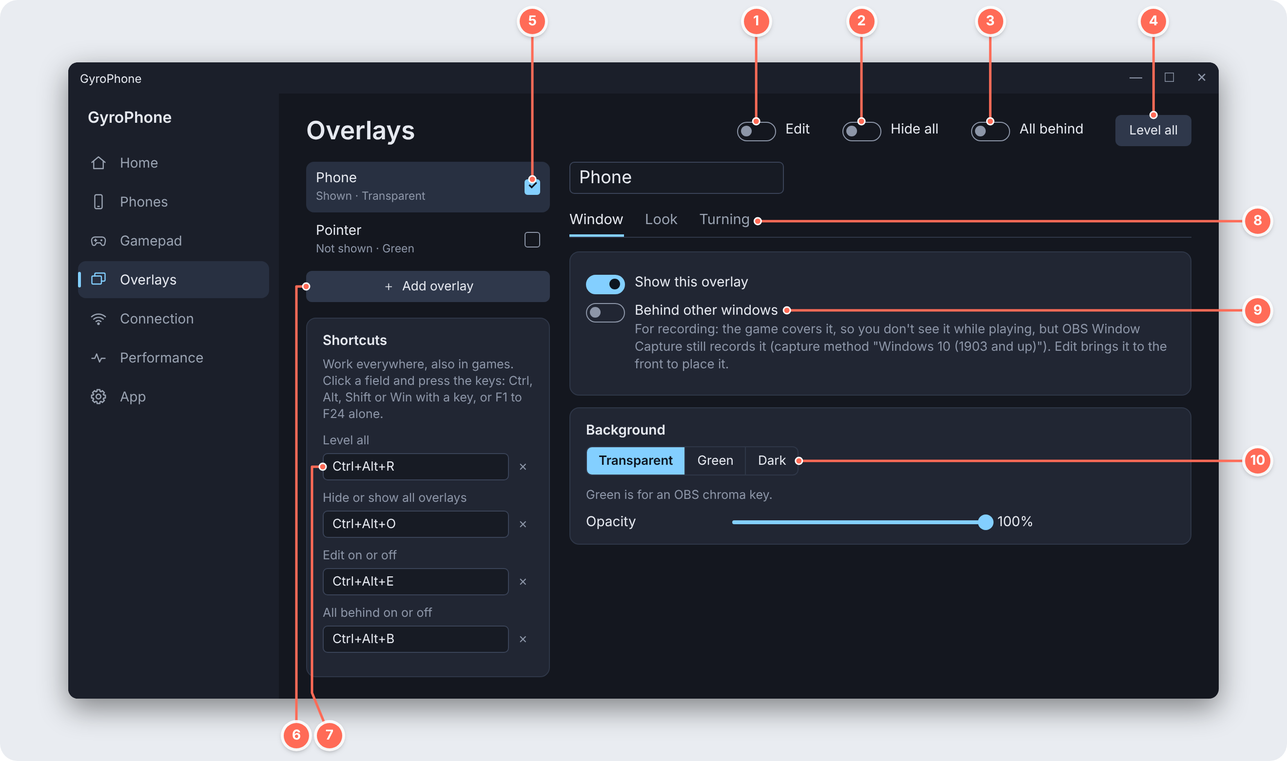
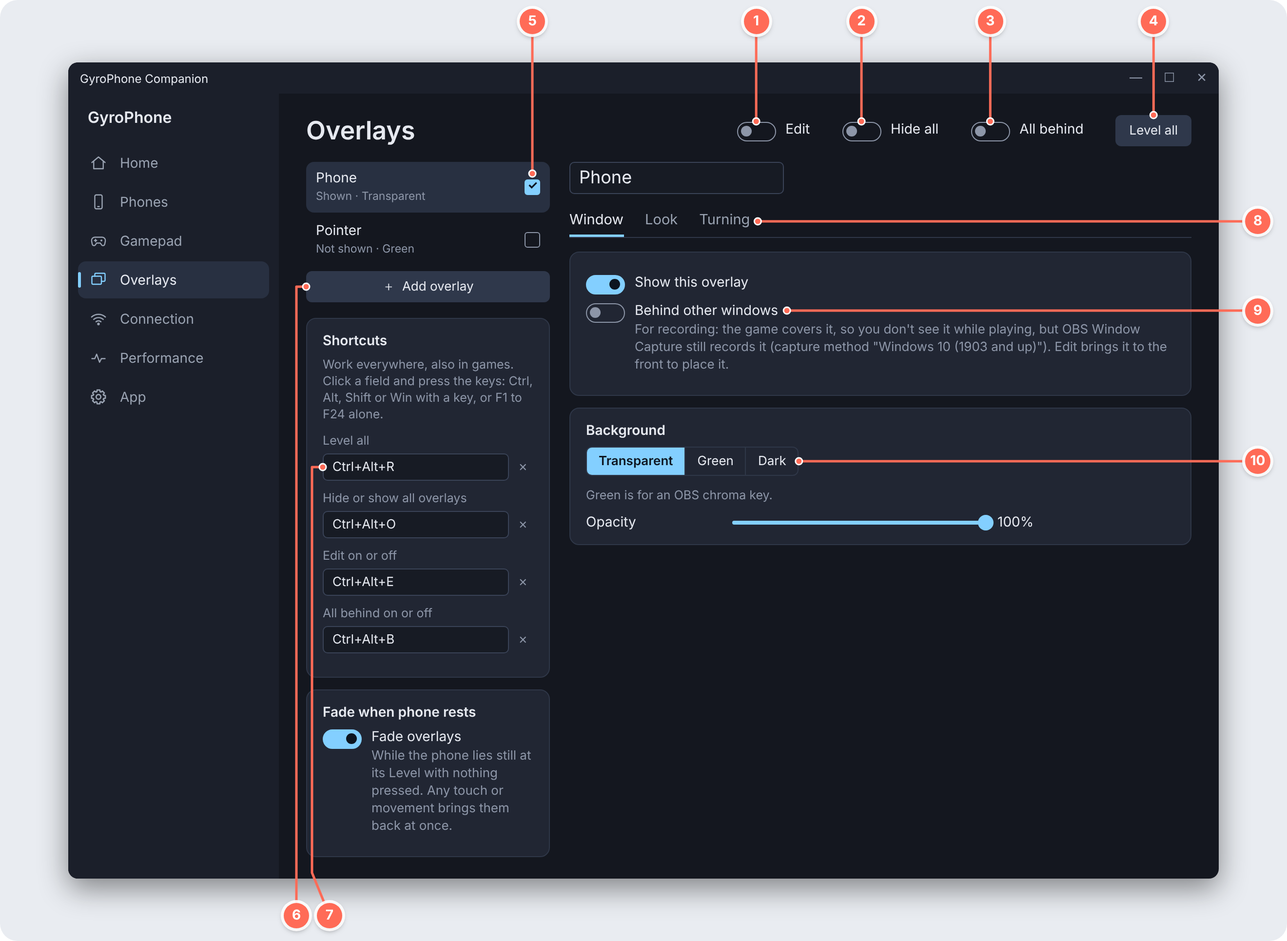
Guide: fix 106 mismatches with the app found by a full check (labels, defaults, tabs, marks, readability)

diff --git a/docs/guide/mockups/mapping-editor.html b/docs/guide/mockups/mapping-editor.html
@@ -3,16 +3,16 @@
 <script>
 const st = document.getElementById('st');
 const s = phone(st, 'land');
-// ControlMappingScreen.kt in landscape: one thin top row on its own background (label, layer chips, Sort, Reset all,
+// ControlMappingScreen.kt in landscape: one thin top row on its own background (label, ☺, layer chips, Sort, Reset all,
 // Clear all, + Preset, Settings, Undo, Redo, Done), then the action cards and the library side by side with a
 // SplitHandle (20 dp, a 4 x 40 dp grip) between them, split half and half by default.
 const p = el(s, `<div class="page" style="padding-left:34px;display:flex;flex-direction:column">
- <div class="mtop" style="background:#211F26"><span class="lbl">LMB</span><span class="setchip on">Base</span><span class="tb">+ Layer</span><span class="tb">Sort ▾</span><span class="tb">↺ Reset all</span><span class="tb">✕ Clear all</span><span class="tb">+ ◯ Preset</span><span class="tb">⚙ Settings</span><span class="tb">↶ Undo</span><span class="tb">↷ Redo</span><span class="done">Done</span></div>
+ <div class="mtop" style="background:#211F26"><span class="lbl">LMB</span><span class="tb" style="font-size:18px">☺</span><span class="setchip on">Base</span><span class="tb">+ Layer</span><span class="tb">Sort ▾</span><span class="tb">↺ Reset all</span><span class="tb">✕ Clear all</span><span class="tb">+ ◯ Preset</span><span class="tb">⚙ Settings</span><span class="tb">↶ Undo</span><span class="tb">↷ Redo</span><span class="done">Done</span></div>
  <div style="flex:1;display:flex;min-height:0">
   <div style="flex:1;padding:8px 12px 0;overflow:hidden">
    <div style="display:flex;gap:6px;margin-bottom:8px;white-space:nowrap"><span class="setchip on">✓ 1 finger</span><span class="setchip">2 fingers</span><span class="setchip">3 fingers</span><span class="setchip">4 fingers</span><span class="setchip">Gyro</span></div>
-   <div class="acard sel"><div class="hd"><span class="t">Touch</span><span class="buzz">Buzz</span><span class="h">⠿</span></div>
-    <div class="crow"><span class="mchip">Mouse L</span><span class="mchip"><small>Long press ·</small> Key R</span></div>
+   <div class="acard sel"><div class="hd"><span class="t">Touch</span><span class="buzz">Buzz</span><span class="h pcard" style="font-size:16px;display:flex;align-items:center;gap:2px">+<svg width="16" height="16" viewBox="0 0 16 16" style="vertical-align:middle"><rect x="1" y="2.2" width="14" height="11.6" rx="2.2" fill="none" stroke="currentColor" stroke-width="1.8"/><rect x="3.8" y="6.4" width="8.4" height="3.2" rx="1.6" fill="currentColor"/></svg></span><span class="h">⠿</span></div>
+    <div class="crow"><span class="mchip">Mouse L</span><span class="mchip">Long · Key R</span></div>
     <div class="timing">Long press: from 300 ms</div></div>
    <div class="acard"><div class="hd"><span class="g">⚙</span><span class="t">Move</span><span class="h">✕</span><span class="h">⠿</span></div>
     <div class="crow"><span class="mchip inh">Mouse X <small>Workspace</small></span><span class="mchip inh">Mouse Y <small>Workspace</small></span></div></div>
@@ -22,7 +22,7 @@ const p = el(s, `<div class="page" style="padding-left:34px;display:flex;flex-di
    <div class="search" style="margin:0 12px;height:36px;background:#2B2930"><span>⌕</span><span>Search, e.g. W, LT, wheel</span></div>
    <div class="lrow" style="display:flex;gap:6px;padding:6px 12px;white-space:nowrap;overflow:hidden"><span class="setchip">⌨ Press a key</span><span class="setchip">Recent</span><span class="setchip">Presets</span><span class="setchip on">✓ Keyboard</span><span class="setchip">Mouse</span><span class="setchip">Gamepad</span><span class="setchip">Gyro</span></div>
    <div style="font-size:12px;color:var(--m3-on-variant);padding:0 16px">Tap to add to Touch · long-press to drag</div>
-   <div style="padding:10px 12px"><span class="lchip">Esc</span><span class="lchip">Tab</span><span class="lchip">Space</span><span class="lchip">Shift</span><span class="lchip">Ctrl</span><span class="lchip">Alt</span><span class="lchip mapped">R</span><span class="lchip">E</span><span class="lchip">F</span><span class="lchip">Q</span><span class="lchip">W</span><span class="lchip">A</span><span class="lchip">S</span><span class="lchip">D</span><span class="lchip">1</span><span class="lchip">2</span><span class="lchip">3</span><span class="lchip">4</span></div>
+   <div style="padding:10px 12px"><span class="lchip">Key A</span><span class="lchip">Key B</span><span class="lchip">Key C</span><span class="lchip">Key D</span><span class="lchip">Key E</span><span class="lchip">Key F</span><span class="lchip">Key G</span><span class="lchip">Key H</span><span class="lchip">Key I</span><span class="lchip">Key J</span><span class="lchip">Key K</span><span class="lchip">Key L</span><span class="lchip">Key M</span><span class="lchip">Key N</span><span class="lchip">Key O</span><span class="lchip">Key P</span><span class="lchip">Key Q</span><span class="lchip mapped">✓ Key R</span><span class="lchip">Key S</span><span class="lchip">Key T</span><span class="lchip">Key U</span><span class="lchip">Key V</span><span class="lchip">Key W</span><span class="lchip">Key X</span><span class="lchip">Key Y</span><span class="lchip">Key Z</span></div>
   </div>
  </div></div>`);
 const q = (sel, i = 0) => p.querySelectorAll(sel)[i];
@@ -31,12 +31,14 @@ const q = (sel, i = 0) => p.querySelectorAll(sel)[i];
   r.querySelectorAll('.setchip').forEach(c => { if (c.getBoundingClientRect().right > lim) c.style.visibility = 'hidden'; }); }
 const B = e => boxOf(st, e), pk = B(q('.lrow .setchip', 0)), H = st.offsetHeight;
 const chip6 = B(q('.mchip', 1)), t1 = B(q('.setchip', 2)), t2 = B(q('.setchip', 3)), gx = (t1.x + t1.w + t2.x) / 2 + 2;
+const mt = B(q('.mtop')), ly = B(q('.mtop .tb', 1)), so = B(q('.mtop .tb', 2)), gx2 = (ly.x + ly.w + so.x) / 2, yMid = (mt.y + mt.h + t1.y) / 2;
 marks(st, [
-  [1, q('.lbl'), 't'], [2, q('.setchip'), 't'], [3, q('.mtop .tb', 5), 't'], [4, q('.done'), 't'],
+  [1, q('.lbl'), 't', { dy: -6 }], [2, q('.setchip'), 't'], [3, q('.mtop .tb', 6), 't'], [4, q('.done'), 't'],
   [5, q('.acard'), 'l'],
-  [6, q('.mchip', 1), 't', { dx: gx - (chip6.x + chip6.w / 2) }],
+  // Up the gap between the finger tabs, then across under the top row to the gap between + Layer and Sort.
+  [6, q('.mchip', 1), 't', { dx: gx - (chip6.x + chip6.w / 2), via: [[gx, yMid], [gx2, yMid]] }],
   [7, q('.buzz'), 'b'], [8, q('.mchip.inh', 1), 'b'],
-  [9, q('.vsplit'), 'b', { at: 'c', dy: 60, shift: -10 }],
+  [9, q('.vsplit'), 'b', { at: 'c', shift: -10 }],
   [10, q('.lrow .setchip', 3), 't'],
   [11, q('.lrow .setchip', 0), 'b', { dx: -pk.w / 2, dy: -pk.h / 2, shift: 40, via: [[pk.x - 7, pk.y + pk.h / 2], [pk.x - 7, H - 62]] }],
 ], {});

diff --git a/docs/guide/mockups/pc-performance.html b/docs/guide/mockups/pc-performance.html
@@ -8,13 +8,16 @@ const q = s => w.querySelector(s), qa = s => [...w.querySelectorAll(s)];
 const bars = Array.from({ length: 60 }, (_, i) => `<span style="height:${8 + Math.round(6 * Math.abs(Math.sin(i * 1.7)))}px${i === 41 ? ';background:#F2B84B;height:26px' : ''}"></span>`).join('');
 const w = pcWin(st, 'Performance', `<h1 style="margin-bottom:6px">Performance</h1>
  <div class="wsub" style="margin:0 0 14px">The phone link live and Diagnostics. Measured only while this page is open (and while Diagnostics is on).</div>
- <div class="wcard"><div class="ct">Link</div><div class="wbig"><span id="path">Router Wi‑Fi 5 GHz ch 100</span></div>
+ <div class="wcard"><div class="ct">Link</div><div class="wbig"><span id="path">Router Wi‑Fi 5 GHz ch 100 · PC Wi‑Fi</span></div>
   <div class="wsub" id="stats">1,000/s received · loss 0.0% · -48 dBm · 1,201 Mbps · phone sends 1,000 Hz · round trip 3.1 ms · low-latency Wi‑Fi on</div>
   <div style="display:flex;align-items:flex-end;gap:10px;margin-top:12px" id="lat"><span class="wbig">1.9 ms</span><span class="wsub" id="latsub" style="margin-bottom:2px">latency p50 · p99 4.8 ms · jitter 0.42 ms</span></div>
+  <svg id="latg" viewBox="0 0 300 30" preserveAspectRatio="none" style="display:block;width:100%;height:30px;margin-top:8px"><polyline fill="none" stroke="#5A6B85" stroke-width="1.2" points="0,14 10,12 20,15 30,10 40,13 50,11 60,16 70,9 80,13 90,12 100,14 110,8 120,12 130,15 140,11 150,13 160,10 170,14 180,12 190,11 200,13 210,9 220,12 230,14 240,10 250,13 260,11 270,12 280,15 290,10 300,12"/><polyline fill="none" stroke="#83CFFF" stroke-width="1.6" points="0,24 10,23 20,24 30,22 40,23 50,24 60,23 70,22 80,24 90,23 100,23 110,22 120,24 130,23 140,22 150,24 160,23 170,23 180,22 190,24 200,23 210,22 220,23 230,24 240,23 250,22 260,24 270,23 280,22 290,23 300,24"/></svg>
+  <div class="wsub" style="font-size:11.5px">Latency while this page is open: middle (p50) bright, slowest 1% (p99) faint.</div>
   <div class="gr">${bars}</div>
-  <div class="wsub" style="font-size:11.5px">Last 10 seconds. Orange marks: the link lost or held up packets, the phone paused, or held keys were let go, in that second.</div>
+  <div class="wsub" style="font-size:11.5px">Last 10 seconds. Orange marks: the link lost or held up packets, the phone paused, or held keys were let go, in that second. With the FPS overlay on, also the game\'s frame times (higher is slower), jumps as red dots.</div>
+  <div class="wsub" style="margin-top:8px">Game frames: off. Add the FPS overlay (Overlays → Add overlay → FPS) to watch them; it\'s the only thing that does.</div>
   <div style="margin-top:10px">${tog('Measure buttons', 'Times each press from the phone seeing your touch or controller button to the game getting it.')}</div></div>
- <div class="wcard"><div class="ct">Diagnostics</div>${tog('Diagnostics', 'Logs everything at once, here and on the phone (they switch together). Kept in memory for the last Keep minutes; nothing is written until you Save.', 1)}
+ <div class="wcard"><div class="ct">Diagnostics</div>${tog('Diagnostics', 'Logs everything at once, here and on the phone (they switch together): each press and what it sent, the link each second, the PC\'s load, the ratchet and the overlays\' draw times. Kept in memory for the last Keep minutes; nothing is written until you Save. The input path only stores numbers, the text is made on a side thread, so it doesn\'t change what it measures. A red dot on the phone\'s pad shows it\'s on.', 1)}
   <div style="display:grid;grid-template-columns:150px minmax(0,260px) 70px;align-items:center;font-size:14px;margin-top:6px"><span>Keep</span><div class="sl"><b></b></div><span style="padding-left:12px">10 min</span></div>
   <div class="wrow"><span class="wbtn acc" id="save"><svg class="g" width="14" height="14" viewBox="0 0 24 24" fill="none" stroke="currentColor" stroke-width="1.8"><path d="M4 4h13l3 3v13H4zM8 4v5h8V4M8 20v-6h8v6"/></svg>Save</span><span class="wbtn" id="dbg"><svg class="g" width="15" height="15" viewBox="0 0 24 24" fill="none" stroke="currentColor" stroke-width="1.8"><path d="M3 6h6l2 2h10v11H3z"/></svg>Open debug folder</span></div>
   <div class="wsub">On for 42:10, keeping the last 10 min.</div></div>`, { width: 1040 });

diff --git a/docs/guide/mockups/pc-home.html b/docs/guide/mockups/pc-home.html
@@ -5,14 +5,14 @@
 const st = document.getElementById('st');
 // MainWindow.cs: sidebar (Home, Phones, Gamepad, Overlays, Connection, Performance, App); HomePage.cs: Phone, Link, Gamepad cards.
 const w = el(st, `<div class="win">
- <div class="tbar">GyroPhone<span class="wc"><span>—</span><span>☐</span><span>✕</span></span></div>
+ <div class="tbar">GyroPhone Companion<span class="wc"><span>—</span><span>☐</span><span>✕</span></span></div>
  <div class="body"><div class="side"><div class="brand">GyroPhone</div>
   <div class="nav on"><svg class="gl" viewBox="0 0 24 24" fill="none" stroke="currentColor" stroke-width="1.6" stroke-linecap="round" stroke-linejoin="round"><path d="M3 11.5 12 4l9 7.5M5.5 9.8V20h13V9.8"/></svg>Home</div><div class="nav"><svg class="gl" viewBox="0 0 24 24" fill="none" stroke="currentColor" stroke-width="1.6" stroke-linecap="round" stroke-linejoin="round"><rect x="7" y="2.5" width="10" height="19" rx="2"/><path d="M11 18.5h2"/></svg>Phones</div><div class="nav"><svg class="gl" viewBox="0 0 24 24" fill="none" stroke="currentColor" stroke-width="1.6" stroke-linecap="round" stroke-linejoin="round"><path d="M7 7h10a4.5 4.5 0 0 1 4.4 5.4l-.9 4.2a2.4 2.4 0 0 1-4.2 1L14.5 15h-5l-1.8 2.6a2.4 2.4 0 0 1-4.2-1l-.9-4.2A4.5 4.5 0 0 1 7 7z"/><path d="M8 10v3M6.5 11.5h3"/><circle cx="16" cy="11.5" r=".6"/></svg>Gamepad</div><div class="nav"><svg class="gl" viewBox="0 0 24 24" fill="none" stroke="currentColor" stroke-width="1.6" stroke-linecap="round" stroke-linejoin="round"><rect x="3" y="7" width="13" height="11" rx="1.5"/><path d="M7 7V4.5A1.5 1.5 0 0 1 8.5 3h11A1.5 1.5 0 0 1 21 4.5v8a1.5 1.5 0 0 1-1.5 1.5H16"/></svg>Overlays</div><div class="nav"><svg class="gl" viewBox="0 0 24 24" fill="none" stroke="currentColor" stroke-width="1.6" stroke-linecap="round" stroke-linejoin="round"><path d="M2.5 9.5a14 14 0 0 1 19 0M5.5 12.8a9.5 9.5 0 0 1 13 0M8.6 16a5 5 0 0 1 6.8 0"/><circle cx="12" cy="19" r="1"/></svg>Connection</div><div class="nav"><svg class="gl" viewBox="0 0 24 24" fill="none" stroke="currentColor" stroke-width="1.6" stroke-linecap="round" stroke-linejoin="round"><path d="M3 13h4l2.5-6 4 11 2.5-5H21"/></svg>Performance</div><div class="nav">${ICON.gear.replace('<svg', '<svg class="gl"')}App</div>
-  <div class="wsub" style="margin:150px 0 0 12px;font-size:11.5px">Version 0.1.857</div></div>
+  <div class="wsub" style="margin:150px 0 0 12px;font-size:11.5px">GyroPhone Companion 0.1.859‑3fa291c</div></div>
  <div class="main"><h1>Home</h1>
   <div style="display:grid;grid-template-columns:1fr 1fr;gap:12px">
    <div class="wcard"><div class="ct">Phone</div><div class="wbig"><span class="dot" style="background:#6FD49A"></span>OnePlus 15</div><div class="wsub">Connected. 1 phone paired.</div></div>
-   <div class="wcard"><div class="ct">Link</div><div class="wbig">Router Wi-Fi 5 GHz ch 36</div><div class="wsub">Latency, lost and late packets, and link tests: Performance.</div></div>
+   <div class="wcard"><div class="ct">Link</div><div class="wbig">Router Wi‑Fi 5 GHz ch 36 · PC Wi‑Fi</div><div class="wsub">Latency, lost and late packets, and link tests: Performance.</div></div>
    <div class="wcard"><div class="ct">Gamepad</div><div class="wseg"><span class="on">Xbox 360</span><span>DualShock 4</span><span>DualSense</span><span>Off</span></div><div class="wsub" style="margin:0 0 6px">Virtual pad plugged in · ViGEmBus ok.</div>
     <div class="wtog"><i></i>Pause input</div><div class="wsub" style="margin-top:-4px">Stops everything from the phone.</div></div>
   </div>

diff --git a/docs/guide/mockups/controller-screen.html b/docs/guide/mockups/controller-screen.html
@@ -11,7 +11,7 @@
 .c.w{flex-direction:row;gap:6px}
 .c.m{background:#4F378B;border-color:#D0BCFF;color:#EADDFF}
 .c .n{font-size:11px;font-weight:700;white-space:nowrap}
-.c.sel{border:2.5px solid #E6E0E9;transform:scale(1.1);box-shadow:0 0 0 3px rgba(255,255,255,.85)}
+.c.sel{border:2.5px solid #E6E0E9}
 .c.tgt{border:3px solid #EFB8C8;transform:scale(1.1)}
 .bbar{position:absolute;left:0;right:0;bottom:0;height:52px;border-top:1px solid var(--m3-outline-variant);display:flex;align-items:center;padding:0 8px;gap:4px}
 .dsw{display:flex;border:1px solid var(--m3-outline);border-radius:20px;overflow:hidden}
@@ -25,7 +25,7 @@
 const st = document.getElementById('st');
 const s = phone(st, 'land');
 const p = el(s, `<div class="page" style="padding-left:34px">
- <div class="pbar"><span class="tb">← Pad</span><span class="ptab">None</span><span class="ptab on">Controller</span><span class="ptab">Shooter</span><span class="tb">+ Preset</span></div>
+ <div class="pbar"><span class="tb">← Pad</span><span class="ptab">None</span><span class="ptab on">Controller</span><span class="ptab">WASD</span><span class="tb">+ Preset</span></div>
  <div class="board"></div>
  <div class="bbar"><div class="dsw"><span class="on">🎮 Controller</span><span>⌨ Keyboard</span><span>🖱 Mouse</span><span>📱 Phone</span></div>
   <span class="tb" style="color:var(--m3-primary);font-weight:500;padding:0 12px">⌨ Press a button</span>
@@ -63,7 +63,7 @@ K('rb', right, 0.02 + barH * 1.5 + 0.04, bar, barH, 'RB', false, 2);
 K('ls', left, t + 0.38, stick, stick, 'LS', true);
 K('up', left, t + 0.76 - gap, key, key, '', false); K('down', left, t + 0.76 + gap, key, key, '', false);
 K('left', left - gap, t + 0.76, key, key, '', false); K('right', left + gap, t + 0.76, key, key, '', false);
-K('y', right, t + 0.38 - gap, key, key, '', true); K('a', right, t + 0.38 + gap, key, key, '', true, 1);
+K('y', right, t + 0.38 - gap, key, key, '', true); K('a', right, t + 0.38 + gap, key, key, '', true, 2);
 K('x', right - gap, t + 0.38, key, key, '', true); K('b', right + gap, t + 0.38, key, key, '', true, 1);
 K('rs', right, t + 0.76, stick, stick, 'RS', true);
 K('view', 0.5 - 0.09, t + 0.1, small, small, ICONS.view, true); K('menu', W - 0.5 + 0.09, t + 0.1, small, small, ICONS.menu, true);
@@ -76,10 +76,10 @@ box.querySelectorAll('.c').forEach(c => { const i = c.querySelector('.in'), room
 const q = id => b.querySelector(`[data-id="${id}"]`);
 q('a').classList.add('sel');
 const popup = (() => { const r = q('a'); const x = parseFloat(r.style.left) + parseFloat(r.style.width) + 8 + parseFloat(box.style.left), y = parseFloat(r.style.top) + parseFloat(box.style.top);
-  return el(b, `<div class="pop" style="left:${x}px;top:${y}px"><div><span class="w">Press</span>Key Space</div><div><span class="w">Aim · Press</span>Mouse right</div></div>`); })();
+  return el(b, `<div class="pop" style="left:${x}px;top:${y}px"><div><span class="w">Press</span>Key Space</div><div><span class="w">Aim · Press</span>Mouse R</div></div>`); })();
 marks(st, [
   [1, p.querySelectorAll('.ptab')[1], 't'], [2, p.querySelectorAll('.ptab')[2], 't'],
-  [3, q('rb'), 'r'], [4, q('ls'), 'l'], [5, popup, 'r'],
+  [3, q('rb'), 'r'], [4, q('ls'), 'l', { shift: -30 }], [5, popup, 'r'],
   [6, p.querySelector('.dsw'), 'b'], [7, p.querySelector(".bbar .tb"), "b", { dy: 6 }],
 ]);
 </script></body></html>

diff --git a/docs/guide/mockups/control-settings.html b/docs/guide/mockups/control-settings.html
@@ -5,19 +5,19 @@
 const st = document.getElementById('st');
 const s = phone(st, 'land');
 // ControlSettingsScreen.kt in SettingsDialog: title and subtitle, the fixed actions beside them in landscape, Mappings, Done;
-// then the search and category tabs (Look, Press, Gyro, Touchpad, Haptics for a button) and Look's settings.
+// then the search and category tabs (Look, Press, Gyro, Touchpad, Haptics, Swipes for a button) and Look's settings.
 const p = el(s, `<div class="page" style="padding-left:34px">
- <div class="pbar" style="padding:4px 4px 2px 12px;border:0"><div class="ttl"><div class="t">LMB</div><div class="s">Button · lmb · settings</div></div>
+ <div class="pbar" style="padding:4px 4px 2px 12px;border:0"><div class="ttl"><div class="t">LMB</div><div class="s">Touchpad button · lmb · settings</div></div>
   <div style="flex:1;display:flex;gap:6px;align-items:center"><span class="btn outl" style="height:32px">Duplicate</span><span class="btn outl" id="save" style="height:32px">Save as preset</span><span class="tb" style="color:#F2B8B5">Delete</span></div>
   <span class="btn outl" id="map">Mappings</span><span class="tb" id="done">Done</span></div>
  <div class="search"><span>⌕</span><span>Search settings</span></div>
- <div class="fchips"><span class="fchip on">Look</span><span class="fchip">Press</span><span class="fchip">Gyro</span><span class="fchip">Touchpad</span><span class="fchip">Haptics</span></div>
+ <div class="fchips"><span class="fchip on">Look</span><span class="fchip">Press</span><span class="fchip">Gyro</span><span class="fchip">Touchpad</span><span class="fchip">Haptics</span><span class="fchip">Swipes</span></div>
  <div class="card" style="padding:10px 12px;display:flex;flex-direction:column;gap:6px">
   <div class="lr"><b>Shape</b><span class="sc on">Circle</span><span class="sc">Square</span></div>
   <div class="lr"><b>Layer</b><span class="sc on">Auto</span><span class="sc">Front</span><span class="sc">Back</span></div>
   <div class="hint" style="margin:0">Where controls overlap, the smaller one (by its shortest side) is in front. Front / Back override that.</div>
   <div class="set" style="padding:0"><div><div class="name">Shares touches</div><div class="hint" style="margin:0">Also works when a finger lands on a control in front of it, so both fire.</div></div><span class="sw"></span></div>
-  <div class="set" style="padding:0"><div><div class="name">Own opacity</div><div class="hint" style="margin:0">Off: the workspace's control opacity (50%).</div></div><span class="sw"></span></div>
+  <div class="set" style="padding:0"><div><div class="name">Own opacity</div><div class="hint" style="margin:0">Off: the workspace's control opacity (100%).</div></div><span class="sw"></span></div>
   <div class="set" style="padding:0"><div><div class="name">Fade when idle</div><div class="hint" style="margin:0">A few seconds after its last touch it fades, never fully: it stays visible. A touch brings it back at once.</div></div><span class="sw"></span></div>
  </div></div>`);
 marks(st, [[1, p.querySelector('#save'), 't'], [2, p.querySelector('#map'), 't'], [3, p.querySelector('.fchip'), 'l']]);

diff --git a/docs/guide/mockups/ov-look-small.html b/docs/guide/mockups/ov-look-small.html
@@ -1,19 +1,15 @@
 <!doctype html><html><head><meta charset="utf-8"><link rel="stylesheet" href="lib.css"><script src="lib.js"></script><script src="pcwin.js"></script><script src="ovlib.js"></script></head><body>
-<div class="stage pad-callouts" id="st" style="flex-wrap:wrap;width:1560px"></div>
+<div class="stage pad-callouts" id="st" style="flex-wrap:wrap;width:1460px"></div>
 <script>
 const st = document.getElementById('st');
 const { tog, seg, chips, sl, sls, t, sub, hint, div, btn, pick, card, swatches } = ov, ind = ov.in;
 const T = s => w.querySelector(s + ' .tl') || w.querySelector(s);
-// Look tabs of the smaller overlays: Bubble disk, Speed graph, Ratchet ring, FPS and Attitude indicator (the last two: colours only).
+// Look tabs of Bubble disk and Speed graph (Ratchet ring, FPS and Attitude indicator have only colours).
 const cols = (list) => card('Colours', swatches(list.map(([n, c]) => [n, argb(c)])) + btn('Default colours', '', '↺'));
 const a = ovCol(st, 'Bubble disk', ['Window', 'Look', 'Turning'], 'Look', card('Bubble disk', sl('Dot on the rim at', 25 / 85, '30°', 'rim') + tog('Crosshair', '', 1, 'cross'))
   + cols([['Disk', 0x66000000], ['Rim', 0xCCFFFFFF], ['Marks', 0xCCFFFFFF], ['12 o\'clock mark', 0xFFFF5A5A], ['Crosshair', 0x80FFFFFF], ['Dot', 0xFFFFC94D]]), 640);
 const b = ovCol(st, 'Speed graph', ['Window', 'Look'], 'Look', card('Speed graph', chips(['±180°/s', '±360°/s', '±720°/s', '±1440°/s'], 1, 'range') + chips(['2 s', '3 s', '5 s', '8 s'], 1, 'secs') + hint('Yaw, pitch and roll speed; shaded while a ratchet is held.'))
   + cols([['Yaw', 0xFFFF5A5A], ['Pitch', 0xFF5ADB6E], ['Roll', 0xFF5AA8FF], ['Background', 0x59000000], ['Ratchet shading', 0x1FFFFFFF]]), 640);
-const c = ovCol(st, 'Ratchet ring', ['Window', 'Look'], 'Look', card('Ratchet ring', hint('Yaw, pitch and roll arcs, lit while that axis moves the mouse and dim while a ratchet (or the gyro mode) pauses it.'))
-  + cols([['Yaw', 0xFFFF5A5A], ['Pitch', 0xFF5ADB6E], ['Roll', 0xFF5AA8FF], ['Letters', 0xE6FFFFFF]]), 640);
-const d = ovCol(st, 'FPS', ['Window', 'Look'], 'Look', cols([['Numbers', 0xFFFFFFFF], ['Frame times', 0xFF7CC4FF], ['Jumps', 0xFFFF5A5A], ['Panel', 0x99000000]]), 640);
-const e = ovCol(st, 'Attitude indicator', ['Window', 'Look', 'Turning'], 'Look', cols([['Sky', 0xFF2F6DB5], ['Ground', 0xFF7A5534], ['Horizon line', 0xFFFFFFFF], ['Pitch ladder', 0xB3FFFFFF], ['Aircraft symbol', 0xFFFFC94D], ['Rim', 0xCCFFFFFF], ['Heading tape', 0x66000000], ['Heading numbers', 0xFFFFFFFF]]), 640);
 const w = a;
-marks(st, [[1, a.querySelector('#rim span'), 'l', { dx: -6 }], [2, a.querySelector('#cross i'), 'l', { dx: -4 }], [3, b.querySelector('#range'), 'r'], [4, b.querySelector('#secs'), 'r']]);
+marks(st, [[1, a.querySelector('#rim span'), 'l', { dx: -14 }], [2, a.querySelector('#cross i'), 'l', { dx: -4 }], [3, b.querySelector('#range'), 'r'], [4, b.querySelector('#secs'), 'r']]);
 </script></body></html>

diff --git a/docs/guide/mockups/devices-mouse.html b/docs/guide/mockups/devices-mouse.html
@@ -25,7 +25,7 @@
 const st = document.getElementById('st');
 const s = phone(st, 'land');
 const p = el(s, `<div class="page" style="padding-left:34px">
- <div class="pbar"><span class="tb">← Pad</span><span class="ptab">None</span><span class="ptab on">Controller</span><span class="ptab">Shooter</span><span class="tb">+ Preset</span></div>
+ <div class="pbar"><span class="tb">← Pad</span><span class="ptab">None</span><span class="ptab on">Controller</span><span class="ptab">WASD</span><span class="tb">+ Preset</span></div>
  <div class="board"></div>
  <div class="bbar"><div class="dsw"><span>🎮 Controller</span><span>⌨ Keyboard</span><span class="on">🖱 Mouse</span><span>📱 Phone</span></div>
   <span class="tb" style="color:var(--m3-primary);font-weight:500;padding:0 12px">⌨ Press a button</span>
@@ -37,8 +37,13 @@ const BW = 866, BH = 306, mh = Math.min(BH, BW / 0.8), mw = mh * 0.8;
 const mb = el(b, `<div style="position:absolute;left:${(BW - mw) / 2}px;top:${(BH - mh) / 2}px;width:${mw}px;height:${mh}px"></div>`);
 el(mb, `<svg width="${mw}" height="${mh}" style="position:absolute;inset:0"><rect x="${mw * .15}" y="${mh * .02}" width="${mw * .7}" height="${mh * .96}" rx="${mw * .35}" fill="#211F26" stroke="#49454F" stroke-width="1.5"/><line x1="${mw / 2}" y1="${mh * .02}" x2="${mw / 2}" y2="${mh * .35}" stroke="#49454F" stroke-width="1.5"/></svg>`);
 const MC = [['left','Left',.31,.2,.27,.3,1],['right','Right',.69,.2,.27,.3,0],['wheel','Wheel',.5,.2,.09,.22,0],['forward','5',.13,.47,.07,.11,0],['back','4',.13,.6,.07,.11,0],['move','Move',.5,.66,.3,.24,2]];
+// DeviceControls.kt: a tall, narrow control (h > 1.6 w) with a name longer than 2 letters shows it sideways.
 for (const [id, l, x, y, w, h, n] of MC) {
+  const tall = h * mh > 1.6 * w * mw && l.length > 2;
   const kk = el(mb, `<div class="c${n ? ' m' : ''}" data-id="${id}" style="left:${mw * (x - w / 2)}px;top:${mh * (y - h / 2)}px;width:${mw * w}px;height:${mh * h}px"><span class="in" style="display:flex;flex-direction:column;align-items:center">${l}${n ? `<span class="n">↪ ${n}</span>` : ''}</span></div>`);
-  const inn = kk.querySelector('.in'); const sc = Math.min(1, kk.clientWidth * .86 / inn.offsetWidth, kk.clientHeight * .86 / inn.offsetHeight); inn.style.transform = `scale(${sc})`; }
+  const inn = kk.querySelector('.in');
+  const sc = tall ? Math.min(1, kk.clientHeight * .86 / inn.offsetWidth, kk.clientWidth * .86 / inn.offsetHeight)
+    : Math.min(1, kk.clientWidth * .86 / inn.offsetWidth, kk.clientHeight * .86 / inn.offsetHeight);
+  inn.style.transform = `${tall ? 'rotate(-90deg) ' : ''}scale(${sc})`; }
 marks(st, [[1, mb.querySelector('[data-id="wheel"]'), 't'], [2, mb.querySelector('[data-id="back"]'), 'l', { dx: -3 }], [3, mb.querySelector('[data-id="move"]'), 'r', { shift: 0 }]]);
 </script></body></html>

diff --git a/docs/guide/mockups/ov-look-pointer.html b/docs/guide/mockups/ov-look-pointer.html
@@ -18,10 +18,10 @@ const w = ovCol(st, 'Pointer', ['Window', 'Look', 'Paint', 'Snake', 'Colours', '
     + pick('Fire display', 'Mouse Left', 'While this button is sent from the phone (or pressed on the PC\'s controller with "Use PC controller for gyro ratchet" on) the gun and crosshair kick and flash with each shot, and Draw mode paints in the Fire colours. Click to pick another, or None.', 'fire')
     + ind(t('Kick') + hint('Each shot the crosshair jumps bigger and bounces back with the recoil of the gun picked here. Once: one kick per press. Auto rifle: keeps kicking while the button is held. Each gun keeps its own kick size and fire rate.')
       + sub('Recoil like') + chips(['Pistol', 'SMG', 'Assault rifle', 'Battle rifle', 'LMG', 'Shotgun', 'Sniper'], 2, 'gun') + seg(['Off', 'Once', 'Auto rifle'], 1, 'kick')
-      + sl('Kick size (this gun)', .95 / 1.95, '100%') + seg(['Lines only', 'Evenly, thickness too'], 0)
+      + sl('Kick size (this gun)', .45 / 1.95, '50%') + seg(['Lines only', 'Evenly, thickness too'], 0)
       + tog('Muzzle flash', 'Each shot a flash in time with the kick: white, cooling to the Flash colour (yellow), then Flash end (orange). The crosshair glows and takes those colours, then its own again; the gun\'s muzzle blasts flame as wide as its muzzle and as long as its calibre (pistol shortest, shotgun and sniper longest).', 1, 'flash')
       + tog('Simulate spread', 'Each shot lands a little off the aim point, a random way, by up to the gun\'s spread; the crosshair or gun kicks toward it and springs back. Each gun keeps its own spread.', 0, 'spread'))
     + pick('Aim display', 'Mouse Right', 'While this button is held the crosshair shrinks and turns laser red (its Crosshair aiming colour), the gun is shouldered with a scope and a laser sight, and Draw mode paints in the Aim colours. Firing wins over aiming. Click to pick another, or None.', 'aim')
     + ind(sl('Crosshair while aiming', .55 / .8, '75%', 'aimsize'))), 760);
-marks(st, [[1, w.querySelector('#look'), 'r'], [2, w.querySelector('#ch'), 'r'], [3, T('#axon'), 'r'], [4, T('#fixed'), 'r'], [5, w.querySelector('#fire .wbtn'), 'r'], [6, w.querySelector('#gun'), 'r'], [7, w.querySelector('#kick'), 'r'], [8, T('#flash'), 'r'], [9, T('#spread'), 'r'], [10, w.querySelector('#aim .wbtn'), 'r'], [11, w.querySelector('#aimsize .v'), 'r']]);
+marks(st, [[1, w.querySelector('#look'), 'r'], [2, w.querySelector('#ch'), 'r'], [3, T('#axon'), 'r'], [4, T('#fixed'), 'r'], [5, w.querySelector('#fire .wbtn'), 'r'], [6, w.querySelector('#gun'), 'r'], [7, w.querySelector('#kick'), 'r'], [8, T('#flash'), 'r'], [9, T('#spread'), 'r'], [10, w.querySelector('#aim .wbtn'), 'r'], [11, textBox(st, w.querySelector('#aimsize .v')), 'r']]);
 </script></body></html>

diff --git a/docs/guide/mockups/chip-options.html b/docs/guide/mockups/chip-options.html
@@ -15,21 +15,24 @@ const body = `<div class="h">Where</div><div class="fr" id="where"><span class="
  <div id="cyc"><div class="set" style="padding:8px 0 0"><div class="name">Cycle</div><span class="sw"></span></div>
  <div class="hn">The mappings of this action with Cycle on take turns: each time it fires, the next one.</div></div>
  <div class="tbn" id="adv">Advanced ▾</div>
- <div class="tbn">★ Save as chip preset</div>
+ <div class="tbn"><span style="display:inline-block;width:13px;height:6px;border-radius:3px;background:currentColor;margin-right:6px;vertical-align:middle"></span>Save as chip preset</div>
  <div class="tbn" id="rm" style="color:#F2B8B5">Remove this mapping</div>`;
 function shot(scrolled) {
   const s = phone(st, 'land');
-  el(s, `<div class="page" style="padding-left:34px"><div class="pbar"><span class="tb">← Pad</span><span class="pt">LMB</span></div></div>`);
+  el(s, `<div class="page" style="padding-left:34px"><div class="mtop" style="background:#211F26"><span class="lbl">LMB</span><span class="tb" style="font-size:18px">☺</span><span class="setchip on">Base</span><span class="tb">+ Layer</span><span class="tb">Sort ▾</span></div></div>`);
   el(s, '<div class="scrim"></div>');
   const d = el(s, `<div class="dialog" style="left:170px;top:14px;width:512px;padding:20px 24px 14px"><h3>Key R · Touch</h3>
    <div class="sc"><div class="in">${body}</div></div><div class="acts"><span class="btn text">Cancel</span><span class="btn text">Done</span></div></div>`);
   const sc = d.querySelector('.sc'), inn = d.querySelector('.in');
-  if (scrolled) inn.style.top = -Math.min(inn.offsetHeight - sc.offsetHeight, inn.querySelector('#rm').offsetTop + inn.querySelector('#rm').offsetHeight + 2 - sc.offsetHeight) + 'px';
-  // Rows the scroll edge would cut are left out, so nothing shows half.
+  // Scrolled: the content starts at the first whole row that still lets the last row (Remove) show.
+  if (scrolled) { const rm = inn.querySelector('#rm'), need = rm.offsetTop + rm.offsetHeight + 2 - sc.offsetHeight;
+    const first = [...inn.children].find(e => e.offsetTop >= need);
+    inn.style.top = -first.offsetTop + 'px'; }
+  // Rows the bottom edge would cut are left out, so nothing shows half.
   const b = sc.getBoundingClientRect();
   inn.querySelectorAll('.h, .fr, .hn, .tbn, #cyc').forEach(e => { const r = e.getBoundingClientRect();
     if (e.closest('#cyc') && e.id !== 'cyc') return;
-    if (r.top < b.top - 1 || r.bottom > b.bottom + 1) e.style.visibility = 'hidden'; });
+    if (r.bottom > b.bottom + 1) e.style.visibility = 'hidden'; });
   return d;
 }
 const a = shot(false), b = shot(true);

diff --git a/docs/guide/mockups/pairing.html b/docs/guide/mockups/pairing.html
@@ -1,9 +1,9 @@
 <!doctype html><html><head><meta charset="utf-8"><link rel="stylesheet" href="lib.css"><script src="lib.js"></script><style>.qr{width:180px;height:180px;background:#fff;padding:12px;border-radius:8px;display:grid;grid-template-columns:repeat(21,1fr)}.qr i{display:block}.step{display:flex;gap:10px;font-size:14px;margin:8px 0}.kv{font-size:14px;margin-top:6px}.kv span{display:inline-block;width:110px;color:#9aa3b2}.step b{width:24px;height:24px;border-radius:50%;background:#2F384B;display:flex;align-items:center;justify-content:center;font-size:12px;flex:none}</style></head><body>
-<div class="stage pad-callouts" id="st" style="align-items:center"></div>
+<div class="stage pad-callouts" id="st" style="align-items:center;flex-direction:column"></div>
 <script>
 const st = document.getElementById('st');
 // PairWindow.cs: "Pair a new phone", a QR code and three steps; code pairing below.
-const w = el(st, `<div class="win" style="width:560px"><div class="tbar">Pair new phone<span class="wc"><span>✕</span></span></div>
+const w = el(st, `<div class="win" style="width:560px"><div class="tbar">Pair new phone - GyroPhone Companion<span class="wc"><span>✕</span></span></div>
  <div style="padding:22px 26px"><h1 style="font-size:24px;margin-bottom:14px">Pair a new phone</h1>
  <div class="wcard" style="display:flex;gap:20px;align-items:center"><div class="qr" id="qr"></div>
  <div><div style="font-size:16px;font-weight:600;margin-bottom:6px">Scan with the phone</div>
@@ -12,7 +12,7 @@ const w = el(st, `<div class="win" style="width:560px"><div class="tbar">Pair ne
   <div class="step"><b>3</b>Point the camera here. The phone connects by itself.</div></div></div>
  <div class="wcard" style="margin-top:16px"><div class="ct">Or pair with a code</div><div class="wsub" style="margin:0">In the Connect tab tap this PC under "Found on this network". If it isn't listed, use "Enter PC address".</div>
   <div class="kv"><span>PC name</span>DESKTOP-PC</div><div class="kv"><span>Address</span>192.168.1.20</div><div class="kv"><span>UDP port</span>47800</div>
-  <div class="wsub" style="margin:6px 0 0">Pairing is open for 4:52.</div></div>
+  <div class="wsub" style="margin:6px 0 0">Pairing is open for 1:52.</div></div>
  </div></div>`);
 // A made-up QR-like pattern (not a real code).
 const qr = w.querySelector('#qr'); let seed = 7;

diff --git a/docs/guide/mockups/devices-keyboard.html b/docs/guide/mockups/devices-keyboard.html
@@ -25,7 +25,7 @@
 const st = document.getElementById('st');
 const s = phone(st, 'land');
 const p = el(s, `<div class="page" style="padding-left:34px">
- <div class="pbar"><span class="tb">← Pad</span><span class="ptab">None</span><span class="ptab on">Controller</span><span class="ptab">Shooter</span><span class="tb">+ Preset</span></div>
+ <div class="pbar"><span class="tb">← Pad</span><span class="ptab">None</span><span class="ptab on">Controller</span><span class="ptab">WASD</span><span class="tb">+ Preset</span></div>
  <div class="board"></div>
  <div class="bbar"><div class="dsw"><span>🎮 Controller</span><span class="on">⌨ Keyboard</span><span>🖱 Mouse</span><span>📱 Phone</span></div>
   <span class="tb" style="color:var(--m3-primary);font-weight:500;padding:0 12px">⌨ Press a button</span>
@@ -54,5 +54,9 @@ rows.forEach((r, i) => { let x = 0; r.forEach(k => { if (k.l !== undefined) {
 const sp = kbx.querySelector('[data-id="Space"]'), sb = boxOf(st, sp);
 const pb = [...st.querySelectorAll('*')].filter(e => e.children.length <= 1 && /Press a button/.test(e.textContent)).pop();
 const gx = boxOf(st, pb).x + 4;
-marks(st, [[1, kbx.querySelector('[data-id="W"]'), 't', { dx: 0 }], [2, sp, 'b', { dx: sb.w / 2 - 20, via: [[sb.x + sb.w - 20, sb.y + sb.h + 14], [gx, sb.y + sb.h + 14], [gx, st.offsetHeight - 60]] }]]);
+// Mark 1 goes up from W through the F1/F2 gap, along the empty band under the tab divider, then up between "← Pad" and "None".
+const wk = kbx.querySelector('[data-id="W"]'), wb = boxOf(st, wk);
+const tabs = p.querySelector('.pbar'), padR = boxOf(st, tabs.querySelector('.tb')), noneB = boxOf(st, tabs.querySelector('.ptab'));
+const f1 = boxOf(st, kbx.querySelector('[data-id="F1"]')), gapX = (padR.x + padR.w + noneB.x) / 2, bandY = (boxOf(st, tabs).y + boxOf(st, tabs).h + f1.y) / 2;
+marks(st, [[1, wk, 't', { via: [[wb.x + wb.w / 2, bandY], [gapX, bandY]] }], [2, sp, 'b', { dx: sb.w / 2 - 20, via: [[sb.x + sb.w - 20, sb.y + sb.h + 14], [gx, sb.y + sb.h + 14], [gx, st.offsetHeight - 60]] }]]);
 </script></body></html>

diff --git a/docs/guide/mockups/pc-overlays.html b/docs/guide/mockups/pc-overlays.html
@@ -14,6 +14,7 @@ const w = pcWin(st, 'Overlays', `<div class="wh" style="margin-bottom:16px"><h1>
   <div class="wbtn" id="add" style="display:flex;justify-content:center;margin-top:6px">＋&nbsp; Add overlay</div>
   <div class="wcard" style="margin-top:16px"><div class="ct">Shortcuts</div><div class="whint" style="margin:0 0 10px">Work everywhere, also in games. Click a field and press the keys: Ctrl, Alt, Shift or Win with a key, or F1 to F24 alone.</div>
    ${sc('Level all', 'Ctrl+Alt+R')}${sc('Hide or show all overlays', 'Ctrl+Alt+O')}${sc('Edit on or off', 'Ctrl+Alt+E')}${sc('All behind on or off', 'Ctrl+Alt+B')}</div>
+  <div class="wcard" style="margin-top:12px"><div class="ct">Fade when phone rests</div>${tog('Fade overlays','While the phone lies still at its Level with nothing pressed. Any touch or movement brings them back at once.', 1)}</div>
  </div><div>
   <span class="winp" style="font-size:18px;min-width:220px">Phone</span>
   <div class="tabs" style="margin-top:12px"><span class="on">Window</span><span>Look</span><span id="turn" style="padding-right:8px">Turning</span></div>
@@ -26,9 +27,9 @@ const tl = qa('.tl'), ti = qa('.top .wtog i'), mainX = boxOf(st, q('.main')).x +
 const cb = boxOf(st, q('.lr .cb')), ad = boxOf(st, q('#add')), sb = boxOf(st, qa('.sc .winp')[0]);
 marks(st, [
   [1, ti[0], 't'], [2, ti[1], 't'], [3, ti[2], 't'], [4, q('#lvl'), 't'],
-  [5, q('.lr .cb'), 't'],
+  [5, q('.lr .cb'), 't', { dy: -6 }],
   [6, q('#add'), 'b', { dx: -ad.w / 2, dy: -ad.h / 2, via: [[mainX + 6, ad.y + ad.h / 2], [mainX + 6, H - 70]] }],
   [7, qa('.sc .winp')[0], 'b', { dx: -sb.w / 2, dy: -sb.h / 2, via: [[mainX + 22, sb.y + sb.h / 2], [mainX + 22, H - 70]] }],
-  [8, q('#turn'), 'r'], [9, tl[4], 'r'], [10, q('.wseg'), 'r'],
+  [8, q('#turn'), 'r'], [9, tl[5], 'r'], [10, q('.wseg'), 'r'],
 ]);
 </script></body></html>
